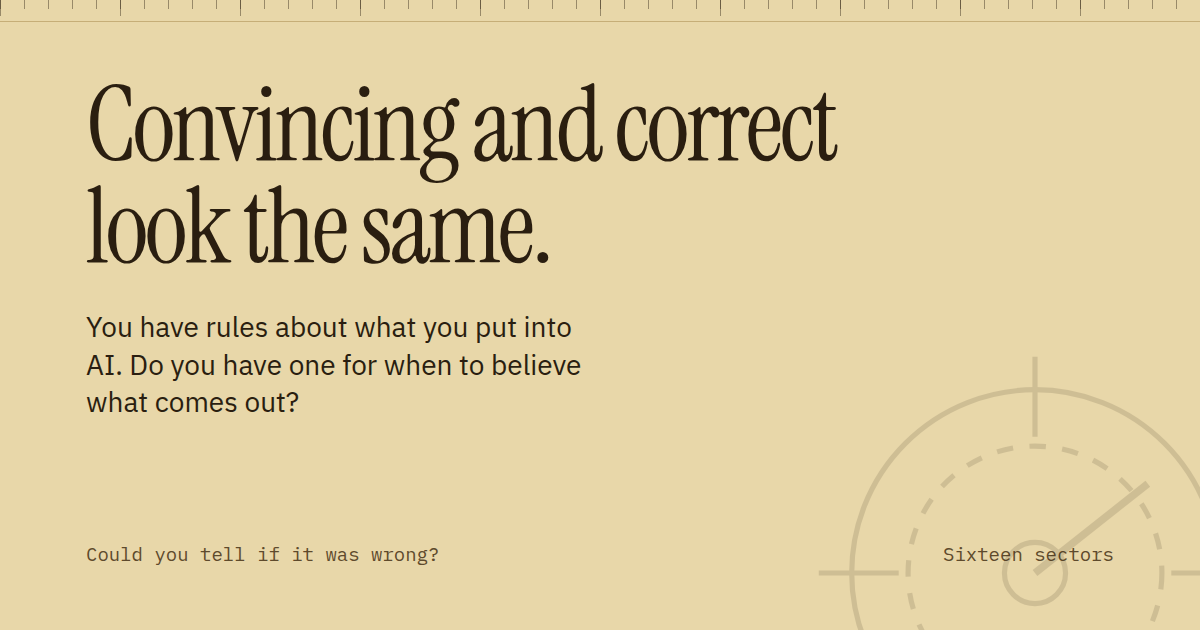
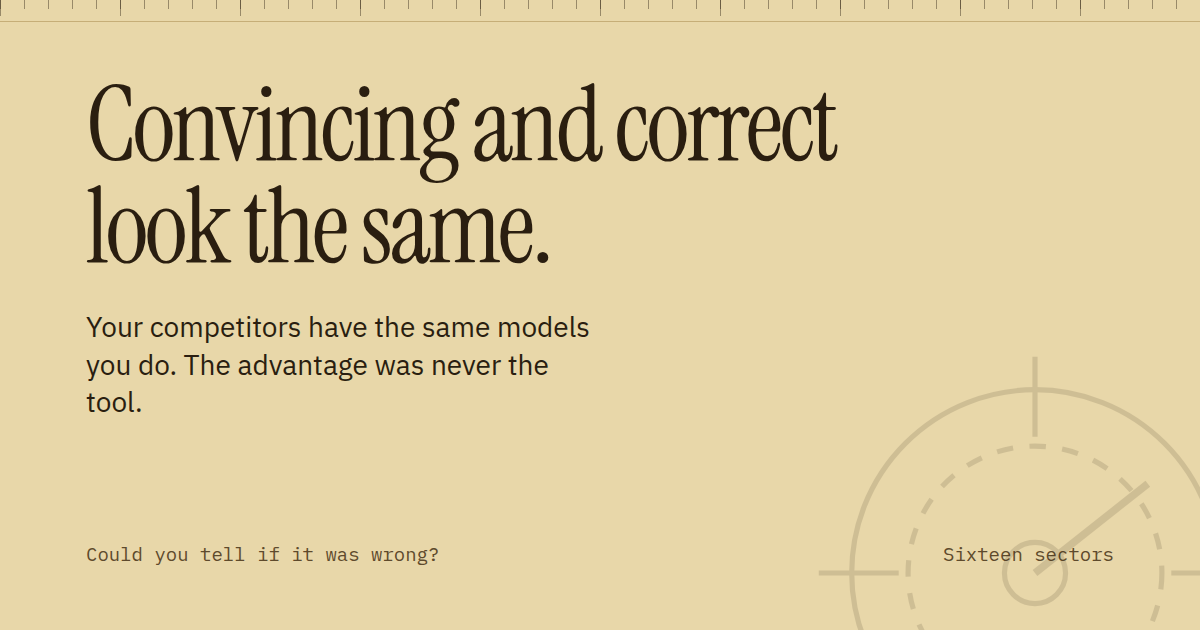
Say why a stranger should bother
The page was a good challenge with no stakes. It asked someone to think
about one decision and gave them no reason to, which is the question
"why would anyone try this" and the page had no answer to it.

The answer was in the dissertation's own section 1.2 and had been sitting
there the whole time. Foundation models are scale free: available to anyone
who pays, replicable without depletion, few mobility barriers, and AI
capability shows no direct relationship with firm performance. So holding
one is not an advantage over anybody else holding one, and the difference
between two firms with the same models is what they do with the output -
which is the thing nobody has designed. That is a strategy argument, not a
self-improvement one, and it names who the page is for.

Then the objection, because the first thing any reader thinks is that AI
has been fine for them. Section 5.3 is why that feeling arrives whether or
not it is true: deviating is the only condition under which the cost of
agreeing becomes observable, so following the answer produces confirming
evidence either way. A wrong answer somebody accepted left no occasion to
go back to it. The feeling is identical in both cases, which is exactly why
it is not evidence.

Both lines are recorded in RESEARCH_FACTS.md with where they come from, one
published and cited, one the researcher's own reasoning, because the rule
for that file is that nothing reaches a screen without a source. So are the
[…]

Changed region(s): [[0.0617, 0.4825, 0.4933, 0.6635]]

diff --git a/public/index.html b/public/index.html
@@ -4,7 +4,7 @@
 <meta charset="utf-8">
 <meta name="viewport" content="width=device-width, initial-scale=1">
 <title>Could you tell if it was wrong?</title>
-<meta name="description" content="You have rules about what you put into AI. Do you have one for when to believe what comes out? A tool that asks questions instead of answering them.">
+<meta name="description" content="Your competitors have the same models you do. The advantage was never the tool - it is whether anyone can tell when the answer is wrong. A tool that asks questions instead of answering them.">
 <meta name="robots" content="index, follow">
 <!-- Vercel serves this on several hostnames and on a per-deployment URL that
      changes with every push, so without this a crawler may index an address
@@ -16,7 +16,7 @@
 <meta property="og:url" content="https://job-search-delta-wine.vercel.app/">
 <meta property="og:site_name" content="Could you tell if it was wrong?">
 <meta property="og:title" content="Could you tell if it was wrong?">
-<meta property="og:description" content="Think of one time you used AI on something that mattered. Could you tell if it was wrong?">
+<meta property="og:description" content="The advantage was never the tool. It is whether anyone can tell when the answer is wrong.">
 <meta name="twitter:card" content="summary_large_image">
 <meta property="og:image" content="https://job-search-delta-wine.vercel.app/og.png">
 <meta property="og:image:width" content="1200">
@@ -709,8 +709,19 @@ h1::before,h2::before{
        lines that were here are payoffs, so they moved to the closing
        screens, where there is something for them to pay off. -->
   <div class="hero-body">
-  <p class="beat"><span>You have rules about what you put into AI.</span><span>Do you have one for when to believe what comes out?</span></p>
-  <p class="beat"><span>Think of one time you used it on something that mattered.</span><span>A number, a summary, a recommendation that went to someone.</span></p>
+  <!-- Why anyone would bother, which the page did not say. The argument is
+       the dissertation's own, section 1.2: foundation models are scale-free,
+       so holding one is not an advantage over anybody else holding one.
+       Published work, not this research - see RESEARCH_FACTS.md. -->
+  <p class="beat"><span>Your competitors have the same models you do.</span><span>The advantage was never the tool.</span><span>It's whether anyone can tell when its answer is wrong.</span></p>
+  <!-- The first thing every reader thinks is "it has been fine for me", and
+       the counterfactual problem in 5.3 is why that feeling arrives whether
+       or not it has been fine: following the answer produces confirming
+       evidence either way, because a wrong answer you took leaves no
+       occasion to revisit it. Deviating is the only thing that ever shows
+       you the cost of agreeing. -->
+  <p class="beat"><span>If AI has never badly misled you, that isn't evidence that it hasn't.</span><span>A wrong answer you accepted leaves nothing behind.</span><span>The only time you learn what agreeing cost is when you didn't.</span></p>
+  <p class="beat"><span>One decision where AI output fed something that mattered.</span></p>
   <p class="ask">Could you tell if it was wrong?</p>
   <!-- Deliberately does not promise a gap. Roughly a third of the test set
        is work that was done properly, and a page that promises to find

diff --git a/scripts/og-card.html b/scripts/og-card.html
@@ -48,7 +48,7 @@ h1{font-family:'Instrument Serif',Georgia,serif;font-weight:400;
 </svg>
 <div>
   <h1>Convincing and correct look the same.</h1>
-  <p class="sub">You have rules about what you put into AI. Do you have one for when to believe what comes out?</p>
+  <p class="sub">Your competitors have the same models you do. The advantage was never the tool.</p>
 </div>
 <div class="foot">
   <span>Could you tell if it was wrong?</span>

diff --git a/RESEARCH_FACTS.md b/RESEARCH_FACTS.md
@@ -52,6 +52,50 @@ and to nothing else. Abductive design, thematic analysis, single coder.
 | Asking what the system had, what it assumes, what might be missing | 4.9.7 | "came out of the research, not from me". Never claimed as study design |
 | Only one articulated set of verification trigger conditions appears | 4.5.1 | Say "one case" |
 
+## What the landing page claims, and where it comes from
+
+The landing page says why any of this is worth a stranger's time, which it
+did not before. Two of its lines are arguments rather than findings of this
+research, and they are recorded here because the rule for this file is that
+nothing reaches a screen without a source.
+
+**"Your competitors have the same models you do. The advantage was never the
+tool. It's whether anyone can tell when its answer is wrong."**
+Published literature, not these interviews. Section 1.2 of the dissertation:
+foundation models are scale free - replicable without depletion, few mobility
+barriers, advantages eroding as competitors adopt equivalents (Barney, 1991;
+Krakowski et al., 2023) - and AI capability shows no direct relationship with
+firm performance, operating through mediating organisational capabilities
+(Mikalef & Gupta, 2021). Safe to state because it is somebody else's
+published finding, cited, and not a claim about anyone who was interviewed.
+
+**"If AI has never badly misled you, that isn't evidence that it hasn't. A
+wrong answer you accepted leaves nothing behind. The only time you learn what
+agreeing cost is when you didn't."**
+The researcher's own argument, section 5.3, the counterfactual problem.
+Deviation is the only condition under which the cost of compliance becomes
+observable, so compliance generates confirming evidence whether or not it was
+optimal. Stated as reasoning, which it is, and not as a count. It is also
+practice implication 13: treat an absence of reported failures as a warning
+rather than a reassurance.
+
+### What is deliberately not used
+
+The BCG experiment (758 consultants, nineteen points less likely to reach the
+correct answer on a task past the model's competence, incorrect AI-assisted
+work rated higher for coherence and persuasiveness) is the strongest single
+piece of evidence available and is published, citable and not participant
+data. It was drafted onto the landing page and cut for length, on the view
+that the page does not need to prove the problem to somebody who has felt it.
+It remains available if the page ever has to argue the case to a sceptic.
+
+The floor and ceiling proposition - that AI raises everyone's floor but
+raises a ceiling only for someone who can check the output - is the most
+persuasive line in the dissertation and must not appear as a finding. It was
+researcher-introduced, rests on self-assessment, and the dissertation says
+plainly that it remains untested. See "Never say" below, on section 4.14. It
+may be asked as a question. It may not be stated.
+
 ## Participant quotes are not cleared for publication
 
 **No verbatim participant quote appears on this site.** The quotes were given
